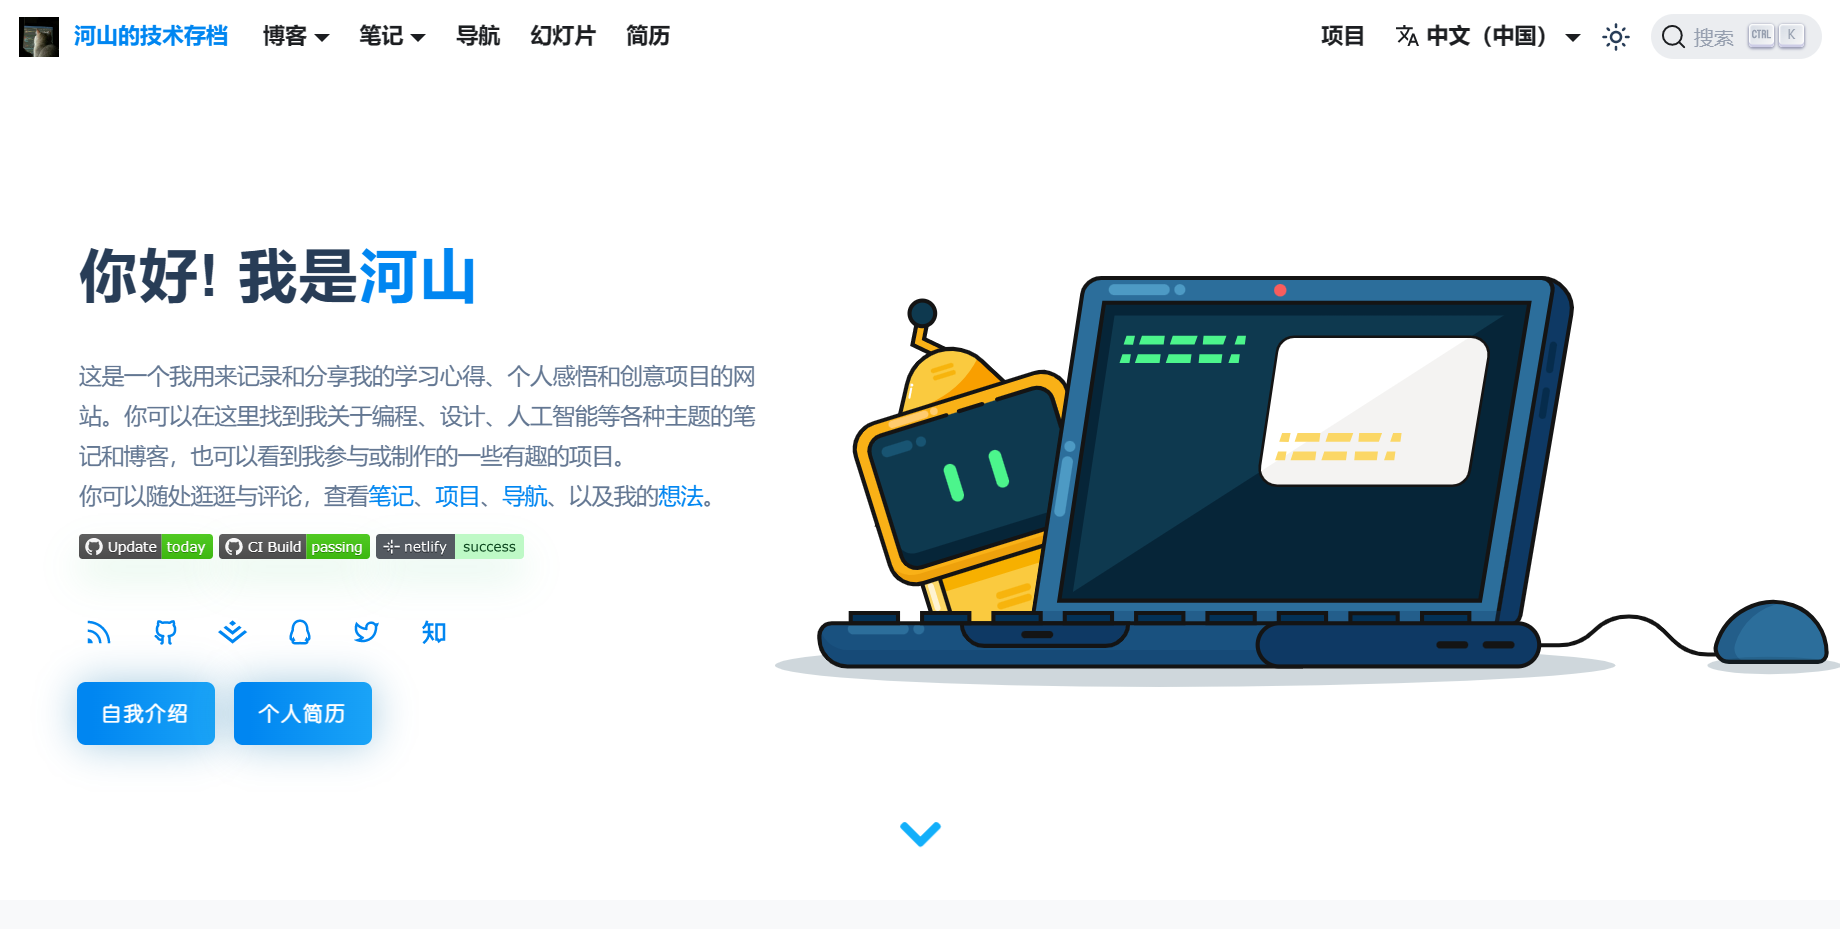
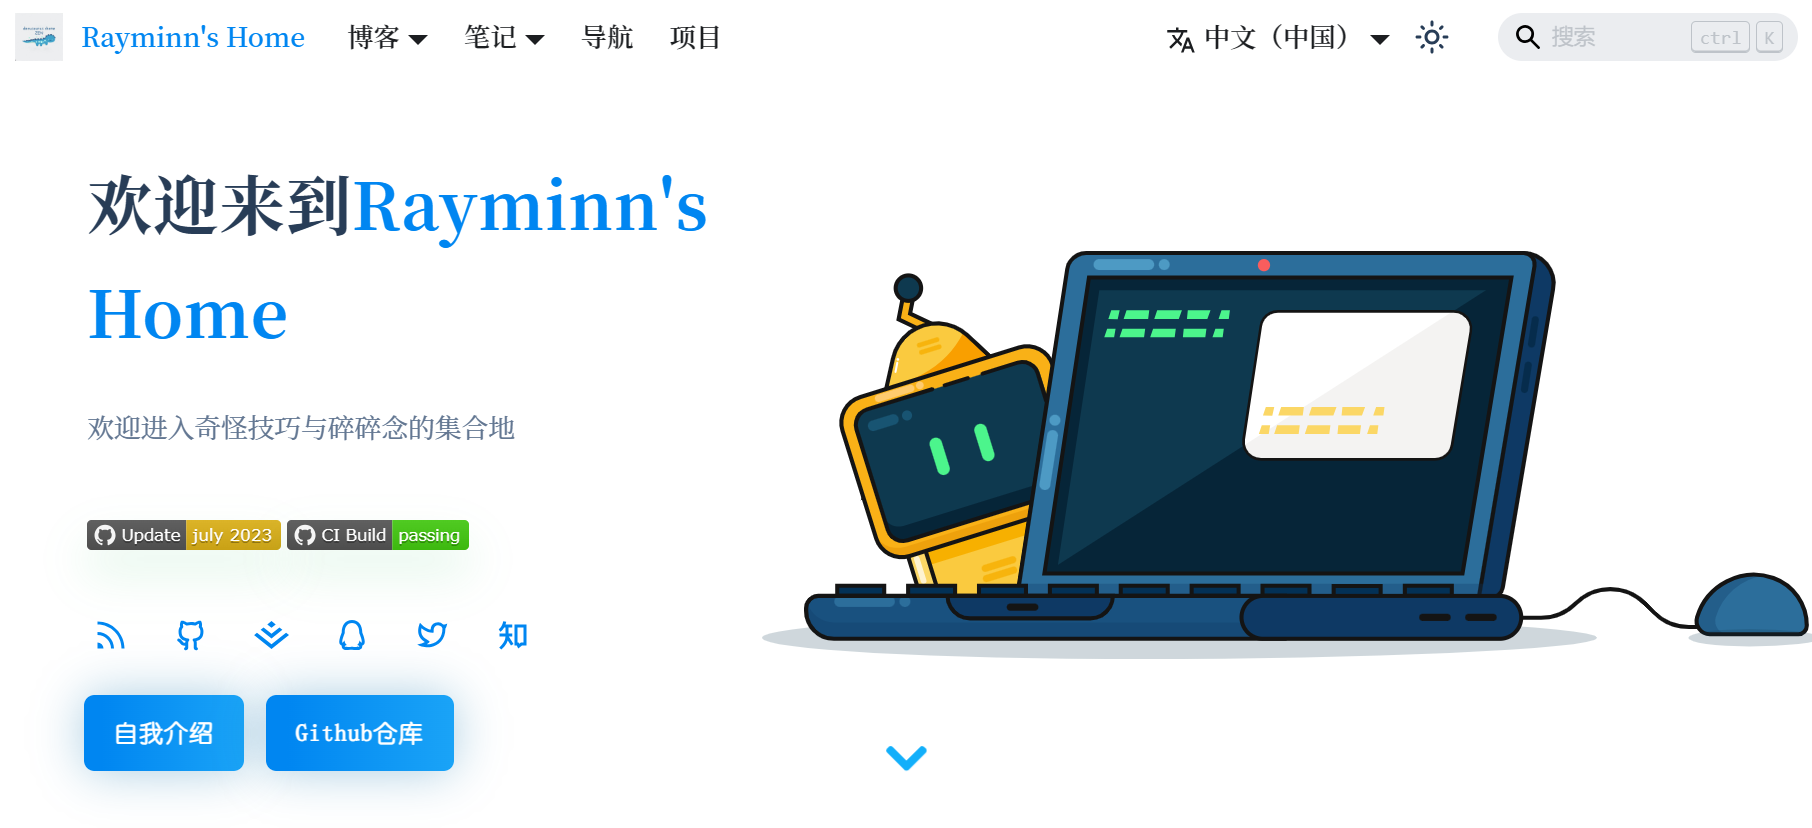
update project

diff --git a/src/components/Hero/index.tsx b/src/components/Hero/index.tsx
@@ -89,7 +89,7 @@ function Hero() {
           </Translate> */}
           <br />
           {/* 徽章的效果 */}
-          <img alt="GitHub last commit" src="https://img.shields.io/github/last-commit/wrm244/docusaurus-theme-zen?label=Update&logo=github" style={{ boxShadow: '0px 16px 30px rgb(62 196 109 / 15%)', marginTop: '14px' }} /> <img alt="GitHub Workflow Status" src="https://img.shields.io/github/actions/workflow/status/wrm244/docusaurus-theme-zen/ci.yml?label=CI%20Build&logo=github" style={{ boxShadow: '0px 16px 30px rgb(62 196 109 / 15%)', marginTop: '14px' }}></img>
+          <img alt="GitHub last commit" src="https://img.shields.io/github/last-commit/Rayminn/Rayminn.github.io?label=Update&logo=github" style={{ boxShadow: '0px 16px 30px rgb(62 196 109 / 15%)', marginTop: '14px' }} /> <img alt="GitHub Workflow Status" src="https://img.shields.io/github/actions/workflow/status/Rayminn/Rayminn.github.io/ci.yml?label=CI%20Build&logo=github" style={{ boxShadow: '0px 16px 30px rgb(62 196 109 / 15%)', marginTop: '14px' }}></img>
         </animated.p>
         <SocialLinks style={trails[2]} />
         <animated.div style={trails[3]}>

diff --git a/docs/stack/introduction.md b/docs/stack/introduction.md
@@ -1,9 +1,11 @@
 ---
 id: introduction
 slug: /Stack
-title: README
+title: Notebook
 last_update:
-  date: 2023/04/22
+  date: 2024/03/07
 ---
 
-## 这里记录笔记
+## Rayminn's Notebook
+
+待更新
